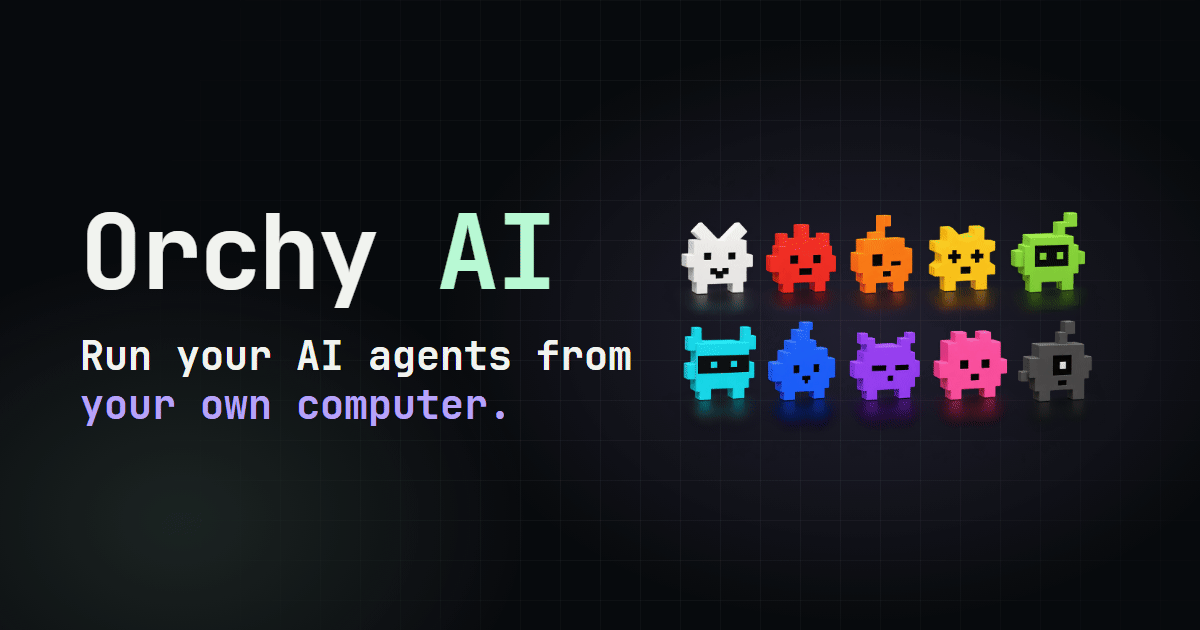
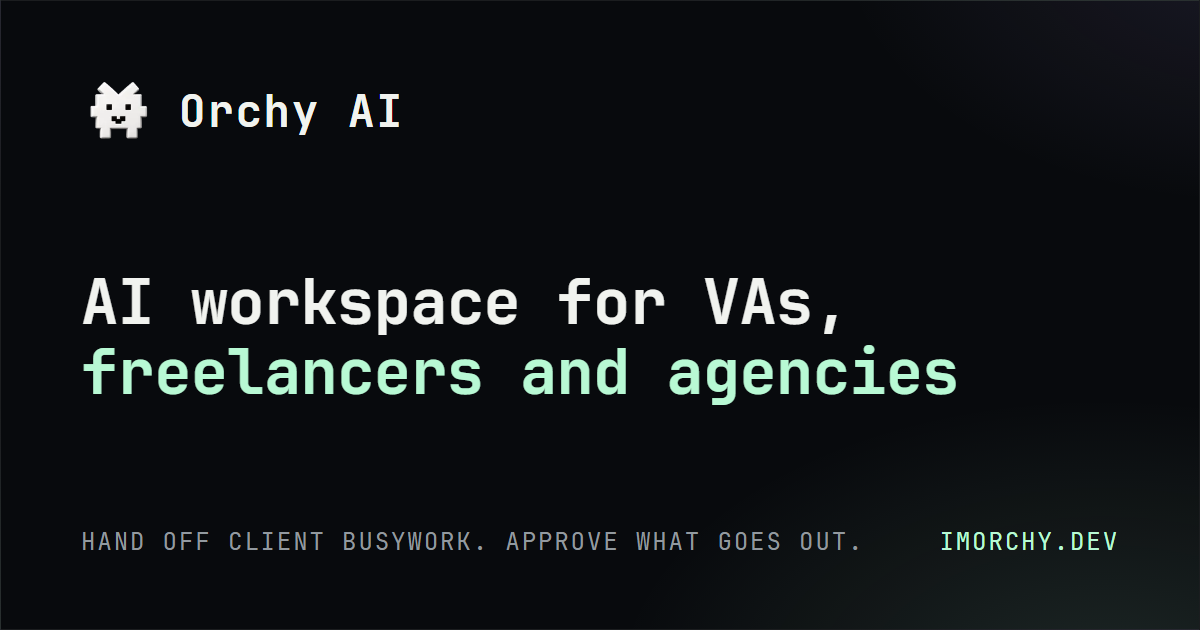
fix(seo): v4 social share image and alt text, drop v3 'own computer' card
The shared og-image.png (and its copy for the VA-cost post) was the v3 card
claiming Orchy runs from your own computer. v4 is hosted, so every share
showed a claim the product can't back up.

- New 1200x630 og-image.png (107 KB) with the homepage line.
- Blog post uses it; the v3 copy is removed.
- og/twitter image alt on every page, plus width/height/alt/twitter:image
  on generated pages; blog description drops 'command center'.

diff --git a/blog.html b/blog.html
@@ -5,16 +5,21 @@
     <meta charset="utf-8" />
     <meta name="viewport" content="width=device-width, initial-scale=1" />
     <title>Blog | Orchy AI</title>
-    <meta name="description" content="Notes from the team building Orchy AI, a command center for your AI agents." />
+    <meta name="description" content="Notes from the team building Orchy AI, the AI workspace for VAs, freelancers and agencies." />
     <meta name="theme-color" content="#080a0d" />
     <link rel="canonical" href="https://imorchy.dev/blog" />
     <meta property="og:type" content="article" />
     <meta property="og:site_name" content="Orchy AI" />
     <meta property="og:url" content="https://imorchy.dev/blog" />
     <meta property="og:title" content="Blog | Orchy AI" />
-    <meta property="og:description" content="Notes from the team building Orchy AI, a command center for your AI agents." />
+    <meta property="og:description" content="Notes from the team building Orchy AI, the AI workspace for VAs, freelancers and agencies." />
     <meta property="og:image" content="https://imorchy.dev/assets/og-image.png" />
+    <meta property="og:image:width" content="1200" />
+    <meta property="og:image:height" content="630" />
+    <meta property="og:image:alt" content="Orchy AI: AI workspace for VAs, freelancers and agencies" />
     <meta name="twitter:card" content="summary_large_image" />
+    <meta name="twitter:image" content="https://imorchy.dev/assets/og-image.png" />
+    <meta name="twitter:image:alt" content="Orchy AI: AI workspace for VAs, freelancers and agencies" />
     <script type="application/ld+json">
       {
         "@context": "https://schema.org",

diff --git a/apps.html b/apps.html
@@ -15,12 +15,12 @@
     <meta property="og:image" content="https://imorchy.dev/assets/og-image.png" />
     <meta property="og:image:width" content="1200" />
     <meta property="og:image:height" content="630" />
-    <meta property="og:image:alt" content="Orchy AI: a command center for your AI agents" />
+    <meta property="og:image:alt" content="Orchy AI: AI workspace for VAs, freelancers and agencies" />
     <meta name="twitter:card" content="summary_large_image" />
     <meta name="twitter:title" content="Agents that work in your clients' own apps | Orchy AI" />
     <meta name="twitter:description" content="1,000+ apps through One. Connect each client's apps to that client's workspace and choose what each agent may use." />
     <meta name="twitter:image" content="https://imorchy.dev/assets/og-image.png" />
-    <meta name="twitter:image:alt" content="Orchy AI: a command center for your AI agents" />
+    <meta name="twitter:image:alt" content="Orchy AI: AI workspace for VAs, freelancers and agencies" />
     <link rel="icon" type="image/png" href="/assets/orchy-icon-64.png" />
     <link rel="stylesheet" href="/css/tokens.css" />
     <link rel="stylesheet" href="/css/components.css" />

diff --git a/security.html b/security.html
@@ -15,12 +15,12 @@
     <meta property="og:image" content="https://imorchy.dev/assets/og-image.png" />
     <meta property="og:image:width" content="1200" />
     <meta property="og:image:height" content="630" />
-    <meta property="og:image:alt" content="Orchy AI: a command center for your AI agents" />
+    <meta property="og:image:alt" content="Orchy AI: AI workspace for VAs, freelancers and agencies" />
     <meta name="twitter:card" content="summary_large_image" />
     <meta name="twitter:title" content="Where your clients' work lives | Orchy AI" />
     <meta name="twitter:description" content="Hosted at OVHcloud in Canada, one isolated container per customer, your own AI key, and approvals before anything goes out." />
     <meta name="twitter:image" content="https://imorchy.dev/assets/og-image.png" />
-    <meta name="twitter:image:alt" content="Orchy AI: a command center for your AI agents" />
+    <meta name="twitter:image:alt" content="Orchy AI: AI workspace for VAs, freelancers and agencies" />
     <link rel="icon" type="image/png" href="/assets/orchy-icon-64.png" />
     <link rel="stylesheet" href="/css/tokens.css" />
     <link rel="stylesheet" href="/css/components.css" />

diff --git a/index.html b/index.html
@@ -15,12 +15,12 @@
     <meta property="og:image" content="https://imorchy.dev/assets/og-image.png" />
     <meta property="og:image:width" content="1200" />
     <meta property="og:image:height" content="630" />
-    <meta property="og:image:alt" content="Orchy AI: a command center for your AI agents" />
+    <meta property="og:image:alt" content="Orchy AI: AI workspace for VAs, freelancers and agencies" />
     <meta name="twitter:card" content="summary_large_image" />
     <meta name="twitter:title" content="Hand off client busywork. Approve what goes out. | Orchy AI" />
     <meta name="twitter:description" content="A separate AI workspace for every client. Agents work in each client's own apps and ask before they act." />
     <meta name="twitter:image" content="https://imorchy.dev/assets/og-image.png" />
-    <meta name="twitter:image:alt" content="Orchy AI: a command center for your AI agents" />
+    <meta name="twitter:image:alt" content="Orchy AI: AI workspace for VAs, freelancers and agencies" />
     <link rel="icon" type="image/png" href="/assets/orchy-icon-64.png" />
     <link rel="stylesheet" href="/css/tokens.css" />
     <link rel="stylesheet" href="/css/components.css" />

diff --git a/client-workspaces.html b/client-workspaces.html
@@ -15,12 +15,12 @@
     <meta property="og:image" content="https://imorchy.dev/assets/og-image.png" />
     <meta property="og:image:width" content="1200" />
     <meta property="og:image:height" content="630" />
-    <meta property="og:image:alt" content="Orchy AI: a command center for your AI agents" />
+    <meta property="og:image:alt" content="Orchy AI: AI workspace for VAs, freelancers and agencies" />
     <meta name="twitter:card" content="summary_large_image" />
     <meta name="twitter:title" content="One AI workspace per client | Orchy AI" />
     <meta name="twitter:description" content="Each client gets their own apps, agents and files. A task runs in one client's workspace, so work never mixes." />
     <meta name="twitter:image" content="https://imorchy.dev/assets/og-image.png" />
-    <meta name="twitter:image:alt" content="Orchy AI: a command center for your AI agents" />
+    <meta name="twitter:image:alt" content="Orchy AI: AI workspace for VAs, freelancers and agencies" />
     <link rel="icon" type="image/png" href="/assets/orchy-icon-64.png" />
     <link rel="stylesheet" href="/css/tokens.css" />
     <link rel="stylesheet" href="/css/components.css" />

diff --git a/approvals.html b/approvals.html
@@ -15,12 +15,12 @@
     <meta property="og:image" content="https://imorchy.dev/assets/og-image.png" />
     <meta property="og:image:width" content="1200" />
     <meta property="og:image:height" content="630" />
-    <meta property="og:image:alt" content="Orchy AI: a command center for your AI agents" />
+    <meta property="og:image:alt" content="Orchy AI: AI workspace for VAs, freelancers and agencies" />
     <meta name="twitter:card" content="summary_large_image" />
     <meta name="twitter:title" content="Nothing goes out without your OK | Orchy AI" />
     <meta name="twitter:description" content="Orchy stops and asks before it sends, pays, books, deletes or shares. You see the request and decide." />
     <meta name="twitter:image" content="https://imorchy.dev/assets/og-image.png" />
-    <meta name="twitter:image:alt" content="Orchy AI: a command center for your AI agents" />
+    <meta name="twitter:image:alt" content="Orchy AI: AI workspace for VAs, freelancers and agencies" />
     <link rel="icon" type="image/png" href="/assets/orchy-icon-64.png" />
     <link rel="stylesheet" href="/css/tokens.css" />
     <link rel="stylesheet" href="/css/components.css" />

diff --git a/agents.html b/agents.html
@@ -15,12 +15,12 @@
     <meta property="og:image" content="https://imorchy.dev/assets/og-image.png" />
     <meta property="og:image:width" content="1200" />
     <meta property="og:image:height" content="630" />
-    <meta property="og:image:alt" content="Orchy AI: a command center for your AI agents" />
+    <meta property="og:image:alt" content="Orchy AI: AI workspace for VAs, freelancers and agencies" />
     <meta name="twitter:card" content="summary_large_image" />
     <meta name="twitter:title" content="Build your own team of agents | Orchy AI" />
     <meta name="twitter:description" content="Describe the job. The Agent Builder sets up the agent, its apps and what it must ask you about first." />
     <meta name="twitter:image" content="https://imorchy.dev/assets/og-image.png" />
-    <meta name="twitter:image:alt" content="Orchy AI: a command center for your AI agents" />
+    <meta name="twitter:image:alt" content="Orchy AI: AI workspace for VAs, freelancers and agencies" />
     <link rel="icon" type="image/png" href="/assets/orchy-icon-64.png" />
     <link rel="stylesheet" href="/css/tokens.css" />
     <link rel="stylesheet" href="/css/components.css" />

diff --git a/data-privacy.html b/data-privacy.html
@@ -15,12 +15,12 @@
     <meta property="og:image" content="https://imorchy.dev/assets/og-image.png" />
     <meta property="og:image:width" content="1200" />
     <meta property="og:image:height" content="630" />
-    <meta property="og:image:alt" content="Orchy AI: a command center for your AI agents" />
+    <meta property="og:image:alt" content="Orchy AI: AI workspace for VAs, freelancers and agencies" />
     <meta name="twitter:card" content="summary_large_image" />
     <meta name="twitter:title" content="Data Privacy: DPA and sub-processors | Orchy AI" />
     <meta name="twitter:description" content="Who processes data for hosted Orchy, on what terms, and our sub-processors." />
     <meta name="twitter:image" content="https://imorchy.dev/assets/og-image.png" />
-    <meta name="twitter:image:alt" content="Orchy AI: a command center for your AI agents" />
+    <meta name="twitter:image:alt" content="Orchy AI: AI workspace for VAs, freelancers and agencies" />
     <link rel="icon" href="/assets/orchy-icon-64.png" type="image/png" sizes="64x64" />
     <link rel="stylesheet" href="/css/tokens.css" />
     <link rel="stylesheet" href="/css/components.css" />

diff --git a/dpa.html b/dpa.html
@@ -15,12 +15,12 @@
     <meta property="og:image" content="https://imorchy.dev/assets/og-image.png" />
     <meta property="og:image:width" content="1200" />
     <meta property="og:image:height" content="630" />
-    <meta property="og:image:alt" content="Orchy AI: a command center for your AI agents" />
+    <meta property="og:image:alt" content="Orchy AI: AI workspace for VAs, freelancers and agencies" />
     <meta name="twitter:card" content="summary_large_image" />
     <meta name="twitter:title" content="Data Processing Agreement (DPA) | Orchy AI" />
     <meta name="twitter:description" content="How One Systems, Inc. processes customer personal data for hosted Orchy." />
     <meta name="twitter:image" content="https://imorchy.dev/assets/og-image.png" />
-    <meta name="twitter:image:alt" content="Orchy AI: a command center for your AI agents" />
+    <meta name="twitter:image:alt" content="Orchy AI: AI workspace for VAs, freelancers and agencies" />
     <link rel="icon" href="/assets/orchy-icon-64.png" type="image/png" sizes="64x64" />
     <link rel="stylesheet" href="/css/tokens.css" />
     <link rel="stylesheet" href="/css/components.css" />

diff --git a/blog/virtual-assistant-cost.html b/blog/virtual-assistant-cost.html
@@ -13,8 +13,13 @@
     <meta property="og:url" content="https://imorchy.dev/blog/virtual-assistant-cost" />
     <meta property="og:title" content="Virtual assistant cost in 2026: rates, hours and AI help | Orchy AI" />
     <meta property="og:description" content="What a virtual assistant costs per hour in the US, the Philippines and on freelance platforms, with sources, and where AI agents can take on routine work." />
-    <meta property="og:image" content="https://imorchy.dev/assets/og/virtual-assistant-cost.png" />
+    <meta property="og:image" content="https://imorchy.dev/assets/og-image.png" />
+    <meta property="og:image:width" content="1200" />
+    <meta property="og:image:height" content="630" />
+    <meta property="og:image:alt" content="Orchy AI: AI workspace for VAs, freelancers and agencies" />
     <meta name="twitter:card" content="summary_large_image" />
+    <meta name="twitter:image" content="https://imorchy.dev/assets/og-image.png" />
+    <meta name="twitter:image:alt" content="Orchy AI: AI workspace for VAs, freelancers and agencies" />
     <script type="application/ld+json">
       {
         "@context": "https://schema.org",

diff --git a/privacy.html b/privacy.html
@@ -15,12 +15,12 @@
     <meta property="og:image" content="https://imorchy.dev/assets/og-image.png" />
     <meta property="og:image:width" content="1200" />
     <meta property="og:image:height" content="630" />
-    <meta property="og:image:alt" content="Orchy AI: a command center for your AI agents" />
+    <meta property="og:image:alt" content="Orchy AI: AI workspace for VAs, freelancers and agencies" />
     <meta name="twitter:card" content="summary_large_image" />
     <meta name="twitter:title" content="Privacy Policy | Orchy AI" />
     <meta name="twitter:description" content="How Orchy handles personal information on imorchy.dev and in hosted Orchy." />
     <meta name="twitter:image" content="https://imorchy.dev/assets/og-image.png" />
-    <meta name="twitter:image:alt" content="Orchy AI: a command center for your AI agents" />
+    <meta name="twitter:image:alt" content="Orchy AI: AI workspace for VAs, freelancers and agencies" />
     <link rel="icon" href="/assets/orchy-icon-64.png" type="image/png" sizes="64x64" />
     <link rel="stylesheet" href="/css/tokens.css" />
     <link rel="stylesheet" href="/css/components.css" />

diff --git a/terms.html b/terms.html
@@ -15,12 +15,12 @@
     <meta property="og:image" content="https://imorchy.dev/assets/og-image.png" />
     <meta property="og:image:width" content="1200" />
     <meta property="og:image:height" content="630" />
-    <meta property="og:image:alt" content="Orchy AI: a command center for your AI agents" />
+    <meta property="og:image:alt" content="Orchy AI: AI workspace for VAs, freelancers and agencies" />
     <meta name="twitter:card" content="summary_large_image" />
     <meta name="twitter:title" content="Terms of Use | Orchy AI" />
     <meta name="twitter:description" content="The terms of use for imorchy.dev and hosted Orchy." />
     <meta name="twitter:image" content="https://imorchy.dev/assets/og-image.png" />
-    <meta name="twitter:image:alt" content="Orchy AI: a command center for your AI agents" />
+    <meta name="twitter:image:alt" content="Orchy AI: AI workspace for VAs, freelancers and agencies" />
     <link rel="icon" href="/assets/orchy-icon-64.png" type="image/png" sizes="64x64" />
     <link rel="stylesheet" href="/css/tokens.css" />
     <link rel="stylesheet" href="/css/components.css" />
